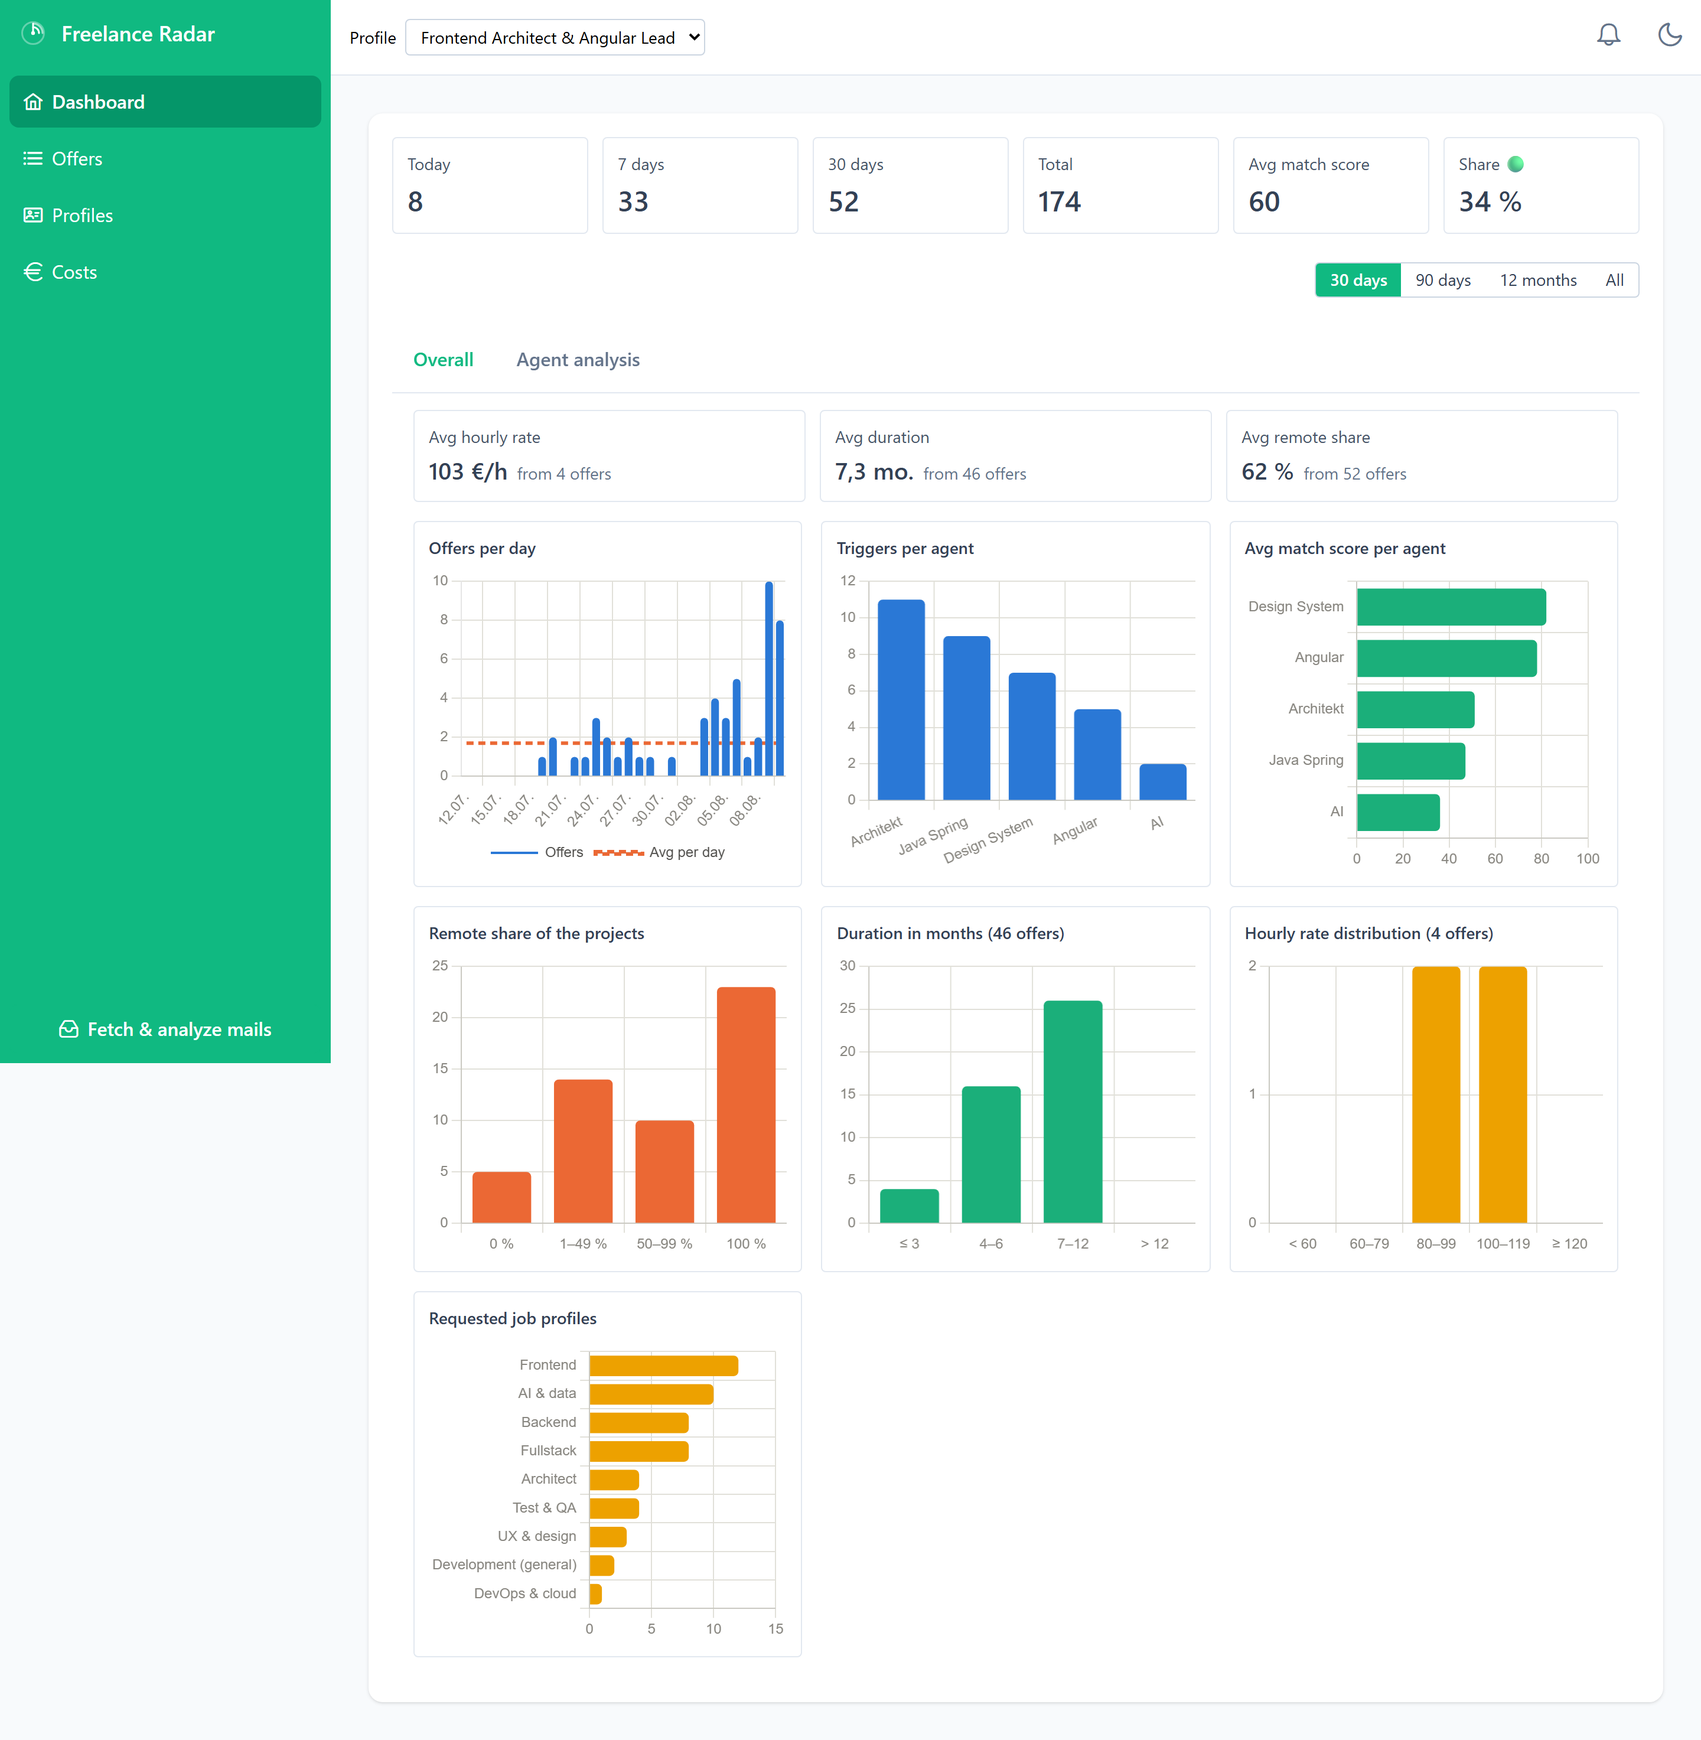
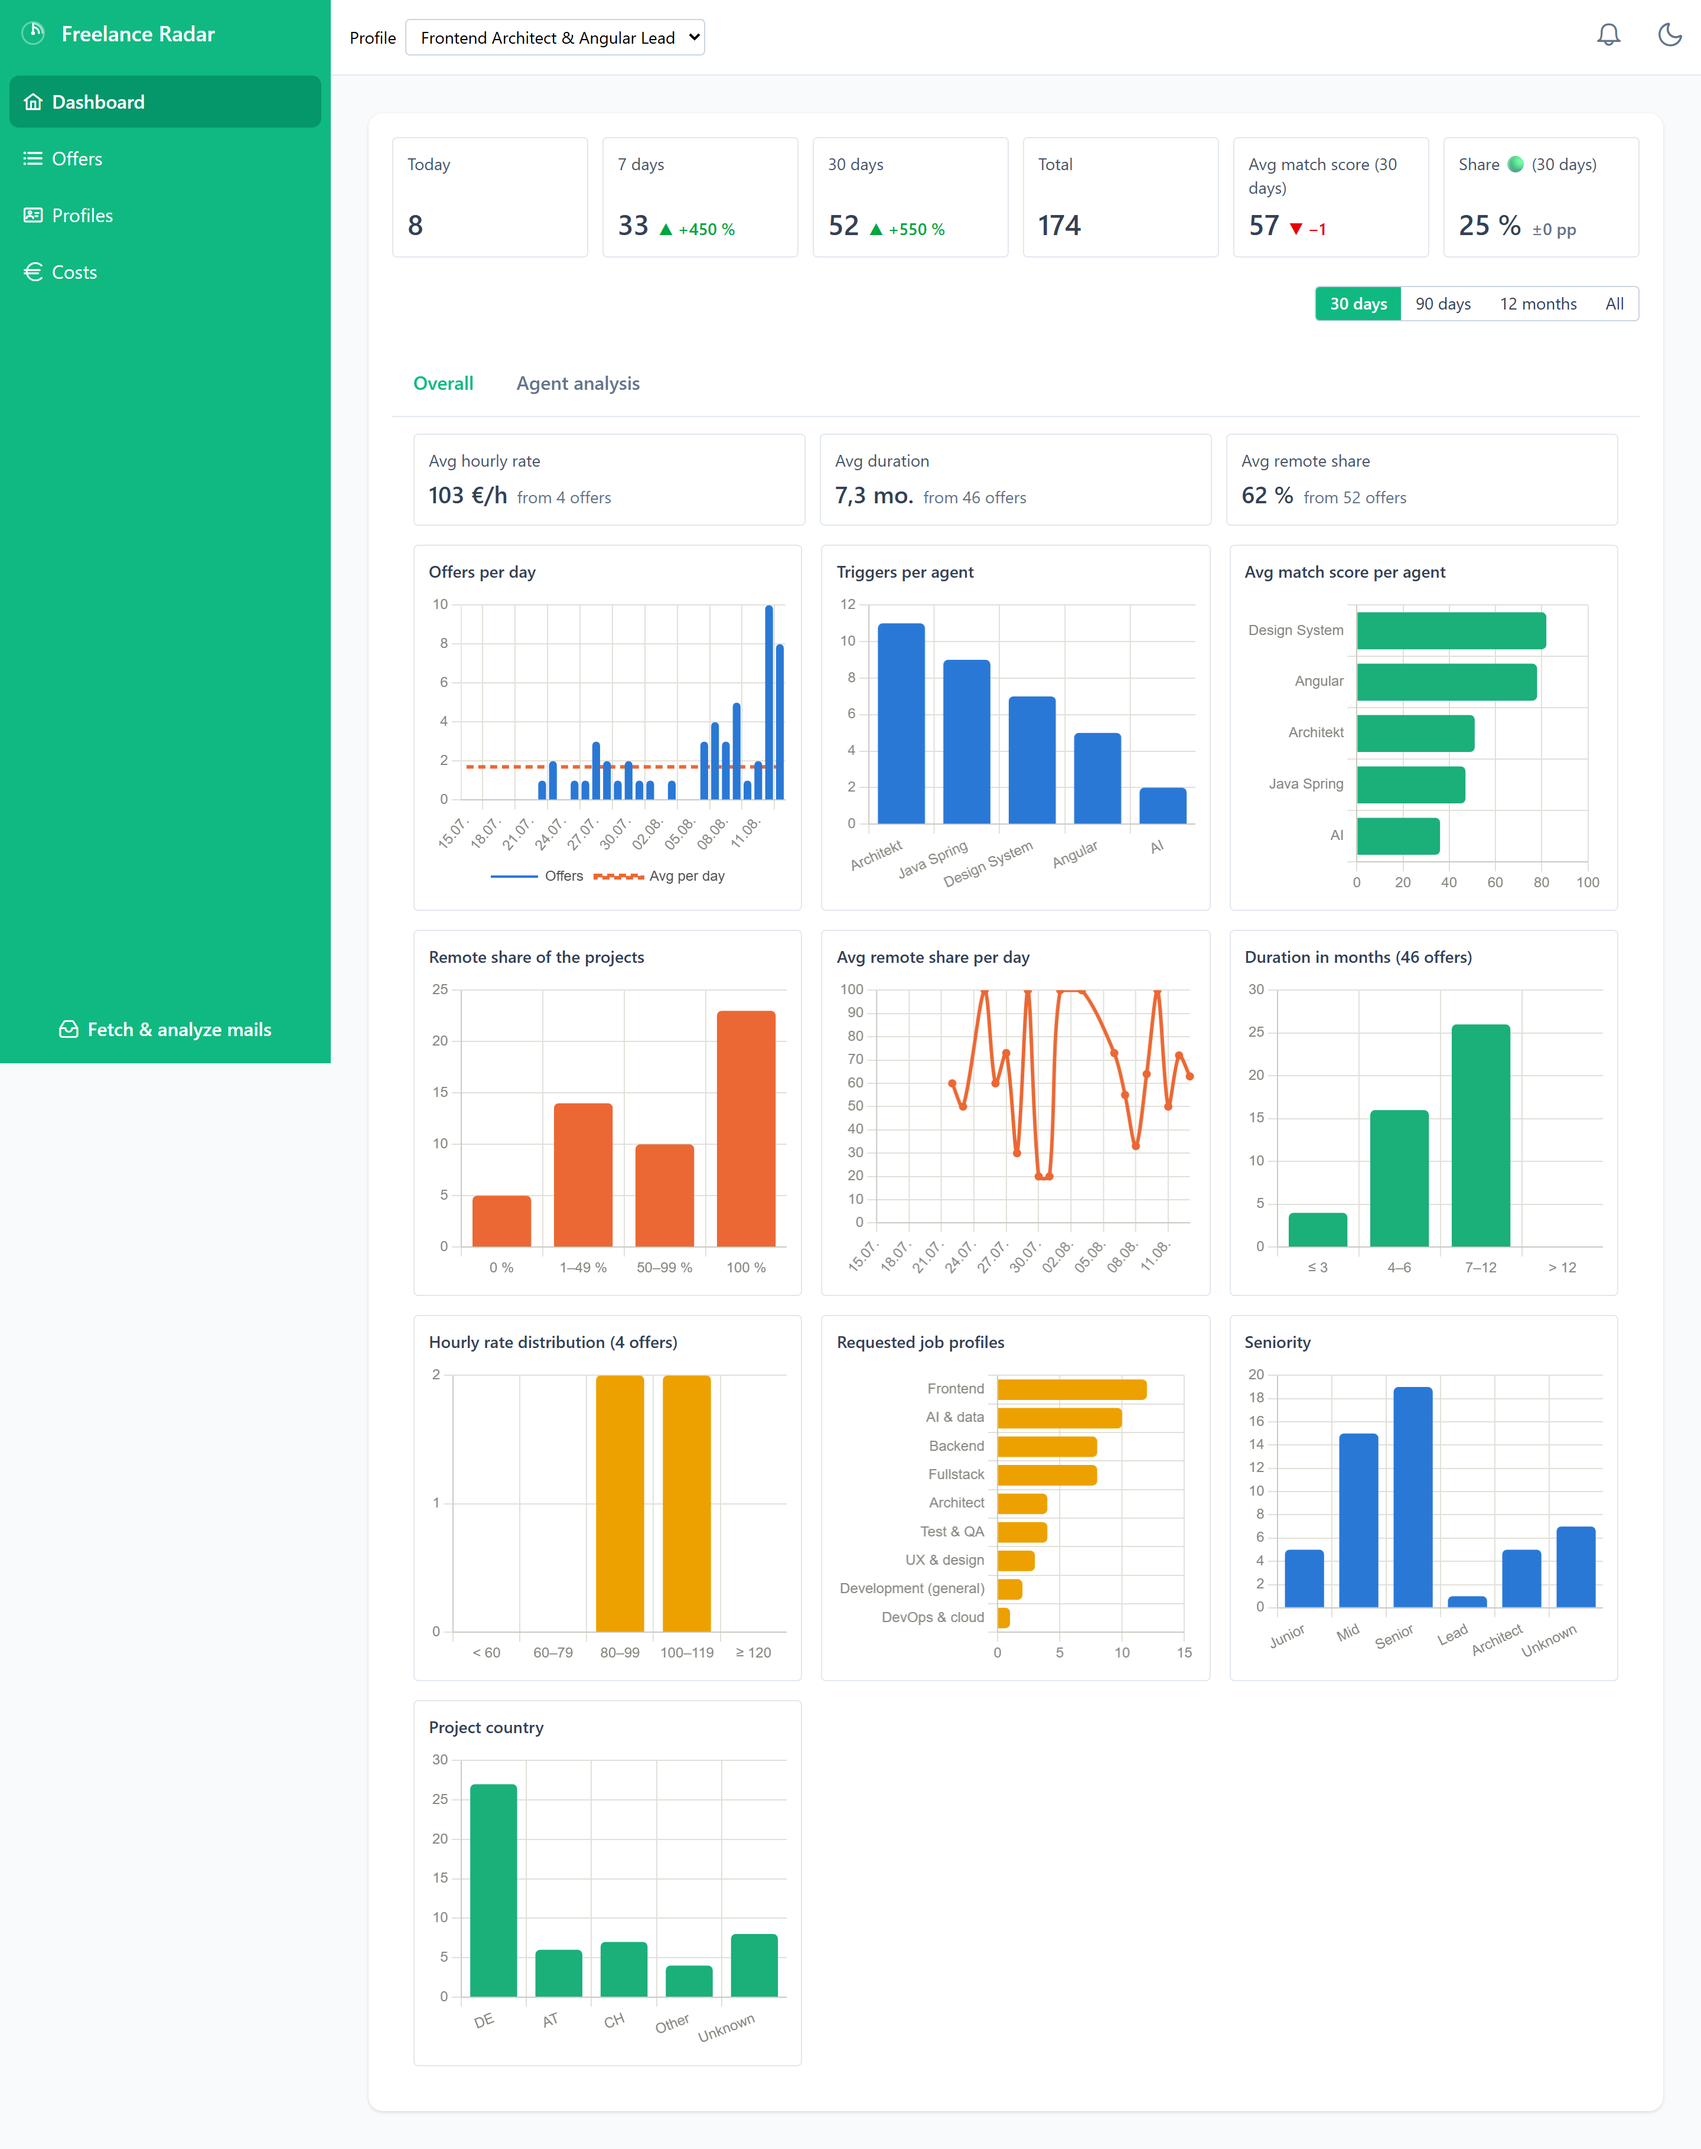
docs: refresh the README and screenshots for the market charts
The dashboard description was two PRs behind: the global tab now carries
ten charts (remote trend, seniority, project country) and the kpi tiles
their deltas. The screenshot generator varies seniority and country so
the new charts show all their bars; the roadmap mirrors the backlog.

diff --git a/README.md b/README.md
@@ -15,7 +15,7 @@ Ausgelöst per Knopfdruck — Tokens fließen nur, wenn ein Lauf bewusst gestart
 ![Java](https://img.shields.io/badge/Java-25-orange.svg)
 ![PostgreSQL](https://img.shields.io/badge/PostgreSQL-18-336791.svg)
 
-<img src="docs/screenshots/dashboard.png" alt="Dashboard mit KPI-Kacheln, Marktkennzahlen und den sieben Charts der Gesamtauswertung" width="900">
+<img src="docs/screenshots/dashboard.png" alt="Dashboard mit KPI-Kacheln, Marktkennzahlen und den zehn Charts der Gesamtauswertung" width="900">
 
 </div>
 
@@ -53,12 +53,14 @@ Projektbeschreibung statt der Teaser-Mail bewertet wird (davor waren es ~750).
   Tabs schneidet **alle** Auswertungen zu; die Zeitreihen ziehen ihre Auflösung mit
   (Tage → Wochen → Monate). Die Auswahl überlebt den Reload.
 - **Dashboard in zwei Tabs** — die KPI-Zeile (heute, 7 Tage, 30 Tage, gesamt, Ø Match-Score,
-  🟢-Anteil) steht mit festen Fenstern über beiden. _Gesamtauswertung_ zeigt die Marktsicht:
-  Marktkennzahlen (Ø Stundensatz, Ø Laufzeit, Ø Remote-Anteil) und sieben Charts — Volumen
-  mit Durchschnittslinie, Trigger und Ø Score je Suchagent, Remote-Anteil, Laufzeit- und
-  Stundensatz-Verteilung, angefragte Berufsprofile. _Agenten-Analyse_ zeigt Volumen und
-  Score-Trend plus Score-Histogramm mit Ampelfarben, Top-Skills und Top-Skill-Gaps — alles
-  gefiltert auf einen wählbaren Suchagenten.
+  🟢-Anteil) steht mit festen Fenstern über beiden; die Zähl-Kacheln tragen ihr **Trend-Delta
+  zur gleich langen Vorperiode**, die beiden Qualitätskacheln rechnen über die letzten 30 Tage.
+  _Gesamtauswertung_ zeigt die Marktsicht: Marktkennzahlen (Ø Stundensatz, Ø Laufzeit,
+  Ø Remote-Anteil) und zehn Charts — Volumen mit Durchschnittslinie, Trigger und Ø Score je
+  Suchagent, Remote-Verteilung und Remote-Anteil als Trendlinie, Laufzeit- und
+  Stundensatz-Verteilung, angefragte Berufsprofile, Seniorität und Einsatzland (DE/AT/CH).
+  _Agenten-Analyse_ zeigt Volumen und Score-Trend plus Score-Histogramm mit Ampelfarben,
+  Top-Skills und Top-Skill-Gaps — alles gefiltert auf einen wählbaren Suchagenten.
 - **Kennzahlen nennen ihre Fallzahl** — „Ø 83 €/h aus 31 Angeboten". Nur rund jedes zehnte
   Projekt beziffert überhaupt ein Budget; ein nackter Durchschnitt würde eine Marktaussage
   vortäuschen, die die Datenlage nicht hergibt.
@@ -163,13 +165,13 @@ Paketen zu je 50, damit die Modellantwort im Token-Limit bleibt.
 
 ## Projektstruktur
 
-| Pfad                                         | Inhalt                                                                   |
-| -------------------------------------------- | ------------------------------------------------------------------------ |
-| [`frontend/`](frontend/README.md)            | Angular-App; Bounded Contexts `offers`, `profiles`, `costs`, `shared`    |
+| Pfad                                         | Inhalt                                                                      |
+| -------------------------------------------- | --------------------------------------------------------------------------- |
+| [`frontend/`](frontend/README.md)            | Angular-App; Bounded Contexts `offers`, `profiles`, `costs`, `shared`       |
 | [`backend/`](backend/AGENTS.md)              | Spring-Boot-Service; Pakete `offer`, `profile`, `analyze`, `collect`, `run` |
-| [`style-guide/`](style-guide/style-guide.md) | Style-Guides je Dateityp (TypeScript, Templates, SCSS, a11y, Tests, Git) |
-| [`.claude/skills/`](SKILLS.md)               | Agent-Skills für wiederkehrende Aufgaben, indiziert in `SKILLS.md`       |
-| [`scripts/`](scripts/)                       | Verifikation: `verify.mjs` (Vollsuite) und der Claude-Code-Stop-Hook     |
+| [`style-guide/`](style-guide/style-guide.md) | Style-Guides je Dateityp (TypeScript, Templates, SCSS, a11y, Tests, Git)    |
+| [`.claude/skills/`](SKILLS.md)               | Agent-Skills für wiederkehrende Aufgaben, indiziert in `SKILLS.md`          |
+| [`scripts/`](scripts/)                       | Verifikation: `verify.mjs` (Vollsuite) und der Claude-Code-Stop-Hook        |
 
 Die Modulgrenzen sind nicht nur dokumentiert, sondern per
 [Sheriff](https://github.com/softarc-consulting/sheriff) in ESLint erzwungen:
@@ -253,10 +255,13 @@ Details und weitere Kandidaten im [Verbesserungs-Backlog](docs/improvement-backl
 - [x] Analyse mit Kostendeckel (Spring AI + Claude Haiku, Batch-Prompt)
 - [x] Auswertungen: KPI-Kacheln und Charts
 - [x] Profil-Verwaltung: mehrere Profile, Ergebnisse je Profil, Neubewertung mit Kostenvorschau
+- [x] Marktdaten von den Projektseiten: Stundensatz, Laufzeit, Remote-Anteil — deterministisch geparst, ohne Tokens
+- [x] Marktauswertungen: wählbarer Zeitraum, Trend-Deltas in den KPI-Kacheln, Seniority-, Länder- und Remote-Trend-Charts
+- [ ] Wochen-Trend je Skill: was verlangt der Markt mehr als vor drei Monaten?
+- [ ] `industry` schärfen oder streichen (heute 90 % „unbekannt")
+- [ ] Wochen-/Monatsbericht als Digest (Weiterentwicklung des Obsidian-Exports für Top-Matches)
+- [ ] Feedback-Schleife: Angebots-Status „beworben / interessant / irrelevant" gegen den Score halten
 - [ ] Vergleichsansicht: Ø Score und 🟢-Quote je Profil nebeneinander
-- [ ] Raten-Statistik und Wochen-Trend je Skill
-- [ ] Obsidian-Export für Top-Matches
-- [ ] Collect-Automatisierung per Task Scheduler (die Analyse bleibt manuell)
 
 ## Lizenz
 
